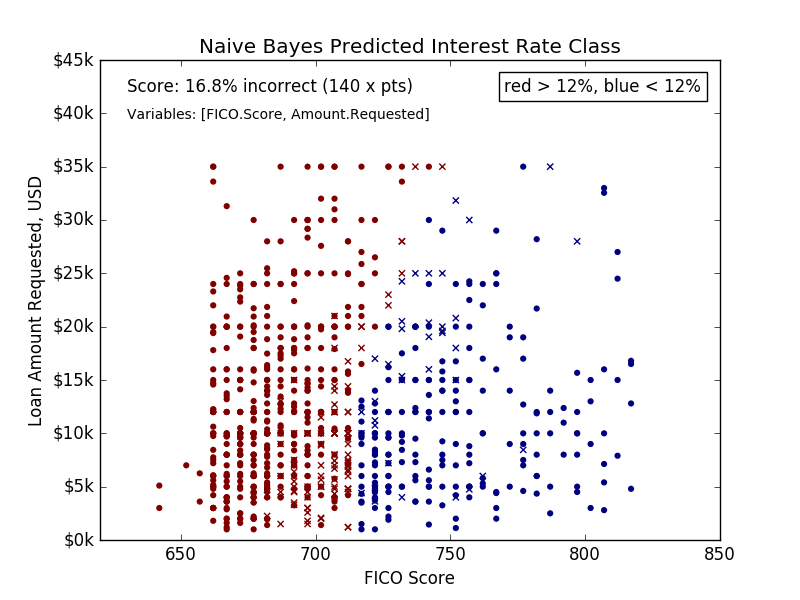
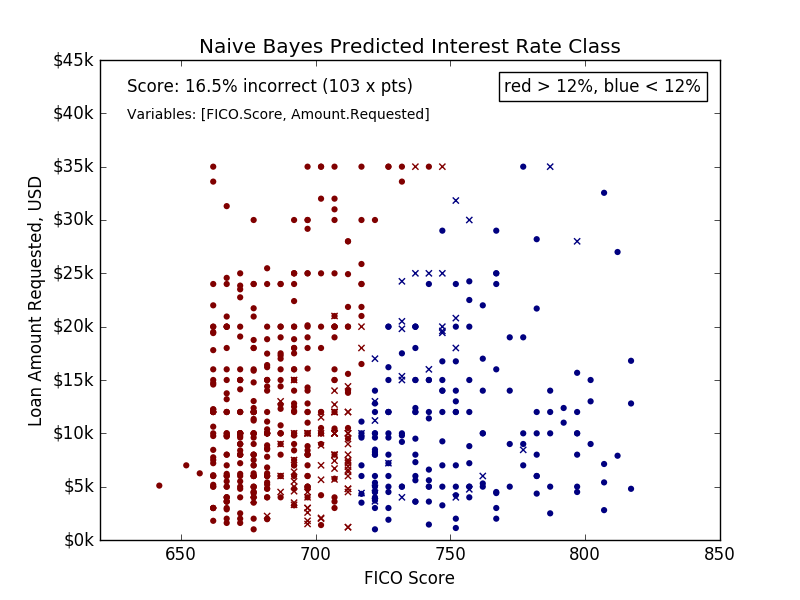
refactor naive_bayes methods

diff --git a/naive_bayes.py b/naive_bayes.py
@@ -45,8 +45,11 @@ def read_data():
     
     return loansData, testData
 
+def get_plotdir():
+    return 'naive_bayes_plots/'
+
 def make_plotdir():
-    plotdir = 'naive_bayes_plots/'
+    plotdir = get_plotdir()
     if not os.access(plotdir, os.F_OK):
         os.mkdir(plotdir)
     return plotdir
@@ -61,7 +64,7 @@ def plot_init(loansData):
     plt.xlabel('FICO Score')
     plt.ylabel('Loan Amount Requested, USD')
     plt.title('Target Interest Rates: red > 12%, blue < 12%')
-    plt.savefig(plotdir+'intrate_target.png')
+    plt.savefig(get_plotdir() + 'intrate_target.png')
 
 def get_var_str(indep_vars):
     lineLength = 80
@@ -99,28 +102,36 @@ def plot_predict(label, score, indep_variables, correct, incorrect, theo=False):
     plt.xlabel('FICO Score')
     plt.ylabel('Loan Amount Requested, USD')
     plt.title('Naive Bayes Predicted Interest Rate Class')
-    sc = 100 * float(score) / test_target.shape[0]
+    sc = 100 * float(score) / (correct.shape[0] + incorrect.shape[0])
     txt = "Score: %.1f%% incorrect (%d x pts)" % (sc, score)
     plt.text(630, 42000, txt)
     plt.text(770, 42000, 'red > 12%, blue < 12%', bbox=dict(edgecolor='black', fill=False))
     txt, pos = get_var_str(indep_variables)
     plt.text(630, 38000 + 1500*(2-pos), txt, fontsize=10)
-    pname = plotdir+label+'_bayes_simple_intrate_'
+    pname = get_plotdir() + label + '_bayes_simple_intrate_'
     if (theo):
         pname += 'theo'
     else:
         pname += 'predict'
     plt.savefig(pname+'.png')
 
-def do_naive_bayes(indep_variables, label, predict_plot=False, theo_plot=False):
+def do_naive_bayes(loansData, testData, indep_variables, label, predict_plot=False, theo_plot=False):
     print('label:', label)
+    
+    dep_variables = ['IR_TF']
     print('Dependent Variable(s):', dep_variables)
     print('Independent Variables:', indep_variables)
+    
+    loans_target = loansData['IR_TF']
+    test_target = testData['IR_TF']
+    print('loans_target head\n', loans_target[:5])
 
     loans_data = pd.DataFrame( loansData[indep_variables] )
     test_data = pd.DataFrame( testData[indep_variables] )
 #    print('loans_data head\n', loans_data[:5])
 #    print('test_data head\n', test_data[:5])
+    
+    gnb = GaussianNB()
 
     pred = gnb.fit(loans_data, loans_target).predict(loans_data)
     score = (loans_target != pred).sum()
@@ -152,34 +163,29 @@ def do_naive_bayes(indep_variables, label, predict_plot=False, theo_plot=False):
     return score
 
 # main program
-if __name__ == '__main__':
+def main():
     loansData, testData = read_data()
     
-    dep_variables = ['IR_TF']
-    loans_target = loansData['IR_TF']
-    test_target = testData['IR_TF']
-    print('loans_target head\n', loans_target[:5])
-    
-    plotdir = make_plotdir()
+    make_plotdir()
     plot_init(loansData)
     
-    gnb = GaussianNB()
-    
     indep_variables = ['FICO.Score', 'Amount.Requested']
-    do_naive_bayes(indep_variables, label='fa', predict_plot=True, theo_plot=True)
+    do_naive_bayes(loansData, testData, indep_variables, label='fa', predict_plot=True, theo_plot=True)
     
     indep_variables = ['FICO.Score', 'Amount.Requested', 'Home.Type']
-    do_naive_bayes(indep_variables, label='fah',predict_plot=True)
+    do_naive_bayes(loansData, testData, indep_variables, label='fah', predict_plot=True)
     
     indep_variables = ['FICO.Score', 'Amount.Requested', 'Home.Type', 'Revolving.CREDIT.Balance', 'Monthly.Income', 'Open.CREDIT.Lines', 'Debt.To.Income.Ratio']
-    do_naive_bayes(indep_variables, label='all7', predict_plot=True)
+    do_naive_bayes(loansData, testData, indep_variables, label='all7', predict_plot=True)
     
     indep_variables = ['FICO.Score', 'Amount.Requested', 'Home.Type', 'Revolving.CREDIT.Balance', 'Monthly.Income', 'Open.CREDIT.Lines', 'Debt.To.Income.Ratio', 'Loan.Length', 'Loan.Purpose.Score', 'Amount.Funded.By.Investors', 'Inquiries.in.the.Last.6.Months']
-    do_naive_bayes(indep_variables, label='all', predict_plot=True)
+    do_naive_bayes(loansData, testData, indep_variables, label='all', predict_plot=True)
     
     indep_variables = ['FICO.Score', 'Amount.Requested', 'Home.Type', 'Loan.Length', 'Loan.Purpose.Score', 'Amount.Funded.By.Investors', 'Inquiries.in.the.Last.6.Months']
-    do_naive_bayes(indep_variables, label='better', predict_plot=True)
+    do_naive_bayes(loansData, testData, indep_variables, label='better', predict_plot=True)
     
     print('\nplots created')
 
+if __name__ == '__main__':
+    main()
 
